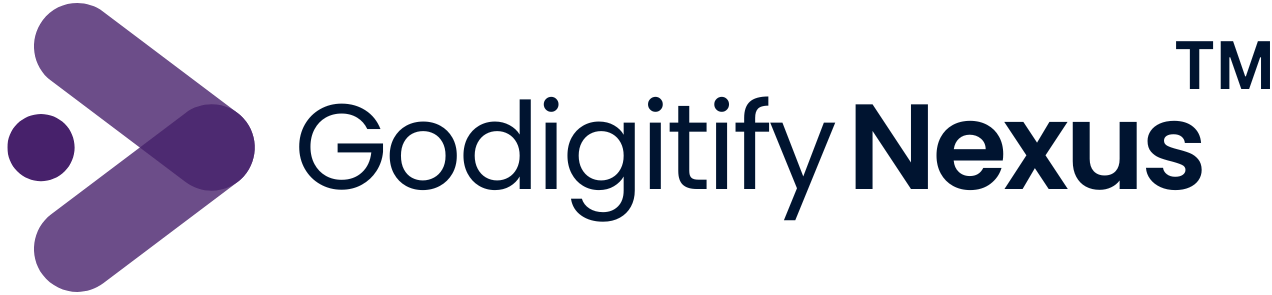
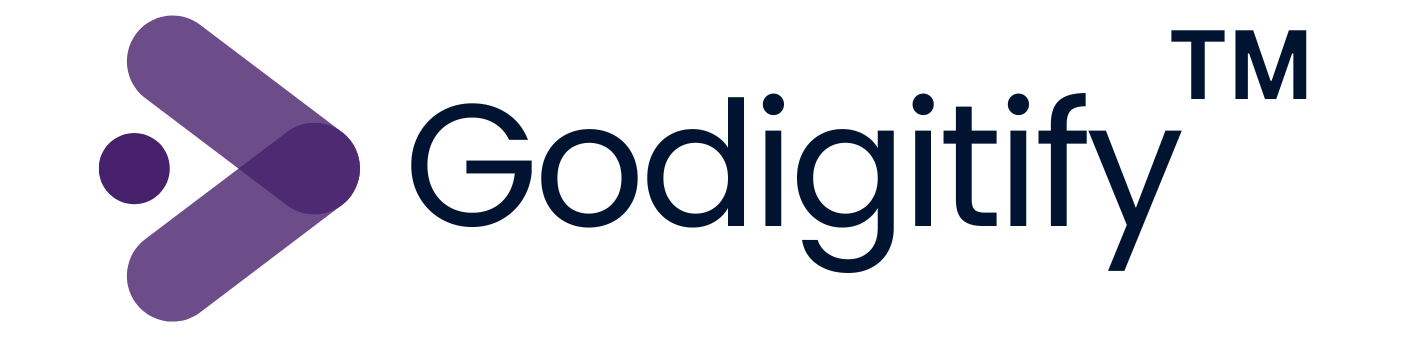
hjj

Changed region(s): [[0.0, 0.0, 0.9505, 1.0], [0.8278, 0.061, 1.0, 0.3051]]

diff --git a/src/pages/about/index.jsx b/src/pages/about/index.jsx
@@ -104,7 +104,7 @@ const teamMembers = [
                 <p className="text-base sm:text-lg md:text-xl text-gray-700 leading-relaxed py-4 md:py-6">
                   At{" "}
                   <span className="font-semibold text-[#47216b]">
-                    GoDigitify Nexus
+                    Godigitify
                   </span>
                   , we are more than just a digital agency. We are your
                   strategic partner in navigating the complex world of digital
@@ -472,7 +472,7 @@ const teamMembers = [
                 <div className="relative bg-white rounded-xl p-6 shadow-lg">
                   <img
                     src="https://bmnmsbiymz.ufs.sh/f/1V3V2P4kpAum9g425VoJQ5AcTPoua6UY3sS7XMiGqmnIVwtL"
-                    alt="CEO - GoDigitify Nexus"
+                    alt="CEO - Godigitify"
                     className="w-full h-96 object-cover rounded-lg"
                   />
                 </div>
@@ -483,7 +483,7 @@ const teamMembers = [
                 <div className="space-y-2">
                   <div className="space-y-1">
                     <p className="text-lg text-gray-700 leading-relaxed italic text-justify">
-  "At GoDigitify Nexus, we believe technology should empower possibilities and ignite progress. 
+  "At Godigitify, we believe technology should empower possibilities and ignite progress. 
   Our mission is to transform ideas into impact through inclusive, innovative, and intelligent solutions."
 </p>
 
@@ -494,7 +494,7 @@ const teamMembers = [
 </p>
 
 <p className="text-gray-600 leading-relaxed text-justify">
-  Under his guidance, GoDigitify Nexus has delivered 50+ successful projects, 
+  Under his guidance, Godigitify has delivered 50+ successful projects, 
   empowering institutions and enterprises to achieve their digital goals while 
   championing access, creativity, and long-term impact.
 </p>

diff --git a/src/utils/Navbar.jsx b/src/utils/Navbar.jsx
@@ -81,7 +81,7 @@ const Navbar = () => {
               <Link to={"/"}>
                 <img
                   src={Logo}
-                  alt="Godigitify Nexus"
+                  alt="Godigitify"
                   className="relative z-10 transition-all duration-300 "
                 />
               </Link>
@@ -261,7 +261,7 @@ const Navbar = () => {
             {/* Header: Logo + Close Button */}
             <div className="flex items-center justify-between px-6 pt-6 pb-4 border-b border-gray-100">
               <Link to="/" onClick={toggleMobileMenu} className="flex items-center space-x-2">
-                <img src={Logo} alt="Godigitify Nexus" className="w-24 h-auto" />
+                <img src={Logo} alt="Godigitify" className="w-24 h-auto" />
               </Link>
               <button
                 className="w-8 h-8 flex items-center justify-center rounded-full hover:bg-gray-100"

diff --git a/index.html b/index.html
@@ -6,9 +6,9 @@
     <link rel="icon" type="image/png" href="/favicon.png" />
     <meta name="viewport" content="width=device-width, initial-scale=1.0" />
     <link href="https://db.onlinewebfonts.com/c/b88ced40599ee76946d2aa71611109b4?family=GT+Flexa+Lt" rel="stylesheet">
-    <title>GoDigitify Nexus - Your one-stop Solution</title>
+    <title>Godigitify - Your one-stop Solution</title>
     <meta name="p:domain_verify" content="856157ceb6502134063ee066daabc504"/>
-    <meta name="description" content="GoDigitify Nexus offers innovative digital transformation services, helping businesses grow with cutting-edge technology and expert solutions.">
+    <meta name="description" content="Godigitify offers innovative digital transformation services, helping businesses grow with cutting-edge technology and expert solutions.">
   </head>
   <body>
     <div id="root"></div>
